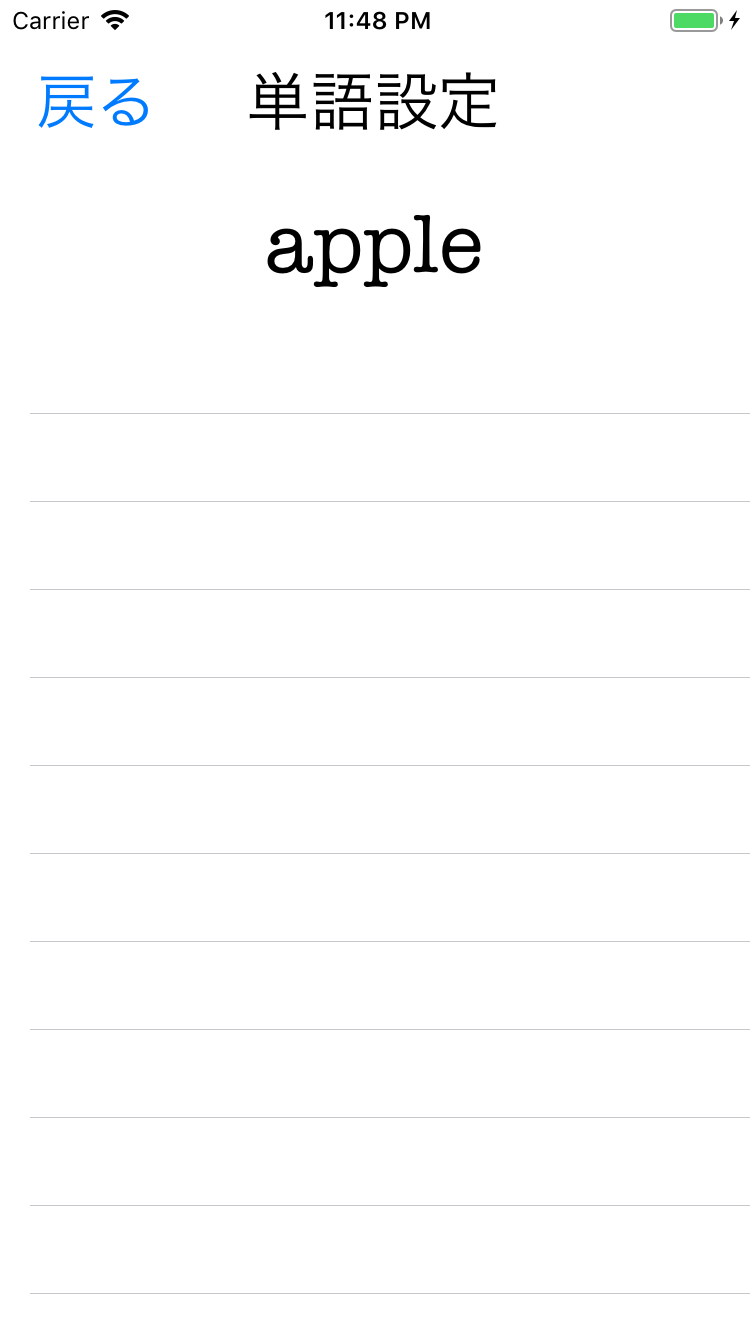
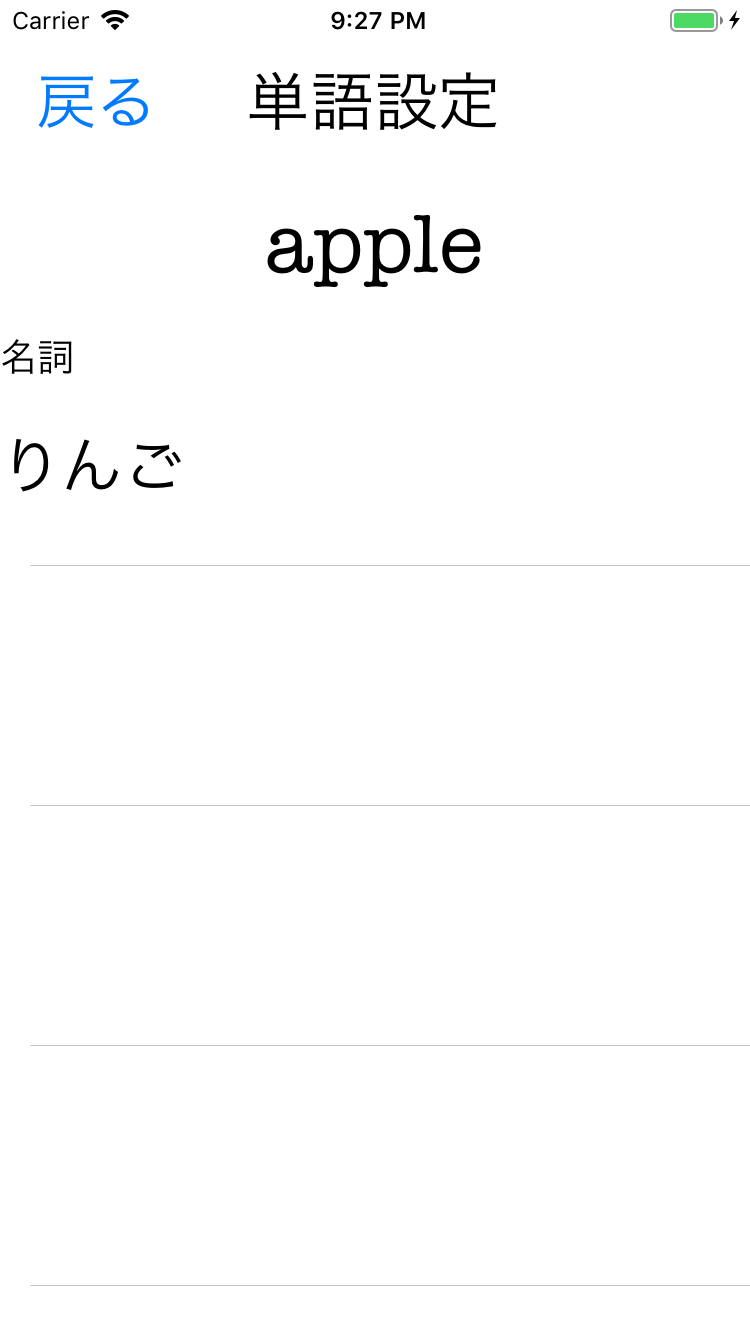
単語設定画面に単語の意味が出るように実装

diff --git a/EnglishWords/EnglishWords/ConfigureWordViewController.swift b/EnglishWords/EnglishWords/ConfigureWordViewController.swift
@@ -10,23 +10,58 @@ import Foundation
 import UIKit
 import RealmSwift
 
-class ConfigureWordViewController: UIViewController{
+class ConfigureWordViewController: UIViewController, UITableViewDelegate, UITableViewDataSource {
     
     @IBOutlet var wordnamelabel: UILabel!
     @IBOutlet var table:UITableView!
     
     var wordnotebook: WordNoteBook?
+    var worddatalist: [WordData] = []
     var wordnote: WordNote?
     
     override func viewDidLoad() {
         super.viewDidLoad()
         
-        wordnamelabel.text = wordnote?.worddata?.word?.wordName
+        let wordname = wordnote?.worddata?.word?.wordName
+        wordnamelabel.text = wordname
         
+        //選択したWordDataからデータベース内に保存してあるWordDataを全て取得
+        let realm: Realm = try! Realm()
+        let results = realm.objects(WordData.self).filter("word.wordName == %@",wordname!)
+        worddatalist = Array(results)
+        
+        //tableのラベルを折り返す設定
+        table.estimatedRowHeight=120
+        table.rowHeight=UITableViewAutomaticDimension
     }
     
     override func didReceiveMemoryWarning() {
         super.didReceiveMemoryWarning()
+    }
+    
+    //Table Viewのセルの数を指定
+    func tableView(_ table: UITableView,
+                   numberOfRowsInSection section: Int) -> Int {
+        return worddatalist.count
+    }
+    
+    //各セルの要素を設定する
+    func tableView(_ table: UITableView,
+                   cellForRowAt indexPath: IndexPath) -> UITableViewCell {
+
+        // tableCell の ID で UITableViewCell のインスタンスを生成
+        let cell = table.dequeueReusableCell(withIdentifier: "tablecell",
+                                                 for: indexPath)
+        // Tag番号  で UILabel インスタンスの生成
+        let oneworddata = worddatalist[indexPath.row]
+        let partofspeech = cell.viewWithTag(1) as! UILabel
+        partofspeech.numberOfLines = 0
+        partofspeech.text = oneworddata.partofspeech?.partsOfSpeechName
+        let mean = cell.viewWithTag(2) as! UILabel
+        mean.numberOfLines = 0
+        mean.text = oneworddata.mean
+        
+        return cell
     }
     
     @IBAction func buttonTapped(sender : AnyObject) {
@@ -41,4 +76,9 @@ class ConfigureWordViewController: UIViewController{
         }
     }
     
+    // sideTableのCell の高さを１２０にする
+    func tableView(_ table: UITableView,
+                   heightForRowAt indexPath: IndexPath) -> CGFloat {
+        return 120.0
+    }
 }
